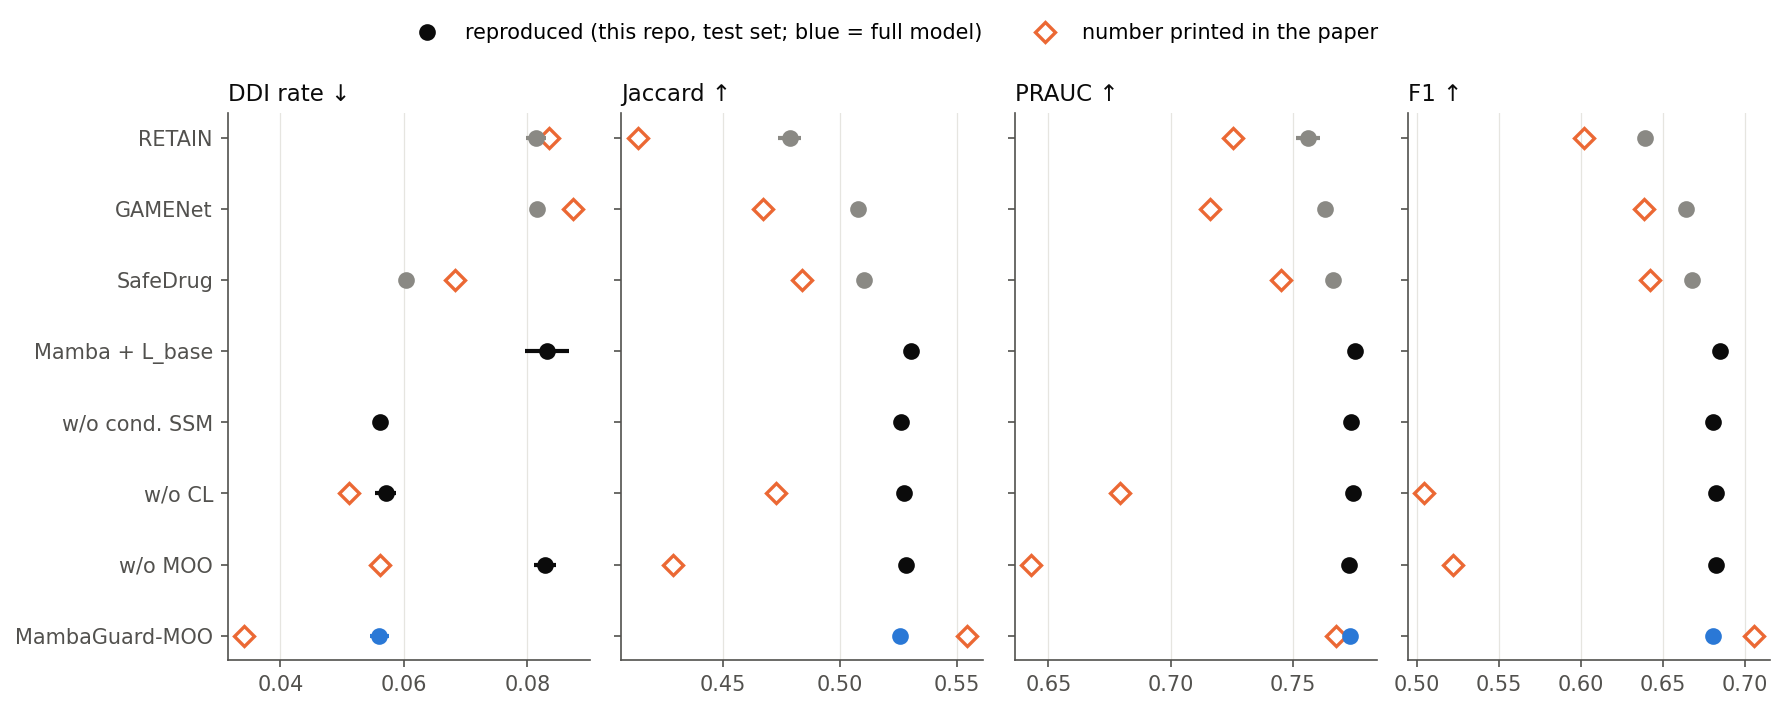
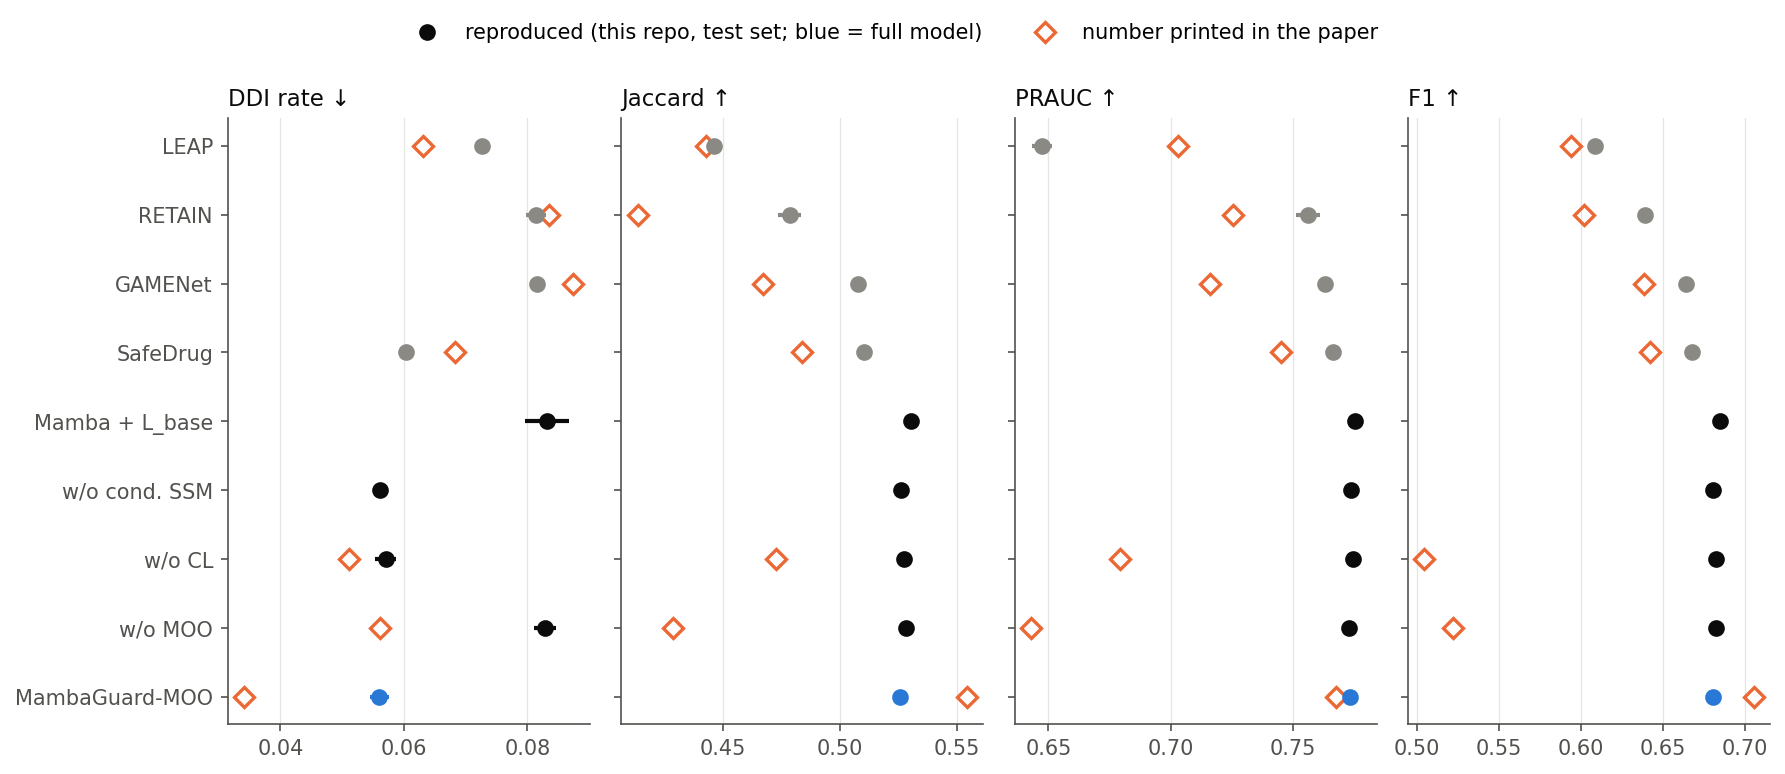
Add official LEAP baseline result

diff --git a/README.md b/README.md
@@ -13,7 +13,7 @@
 
 <img src="assets/tradeoff.png" width="70%">
 
-*Test-set safety vs. accuracy. The multi-objective losses cut the DDI rate of the recommended drug sets by a third, to well below that of the real prescriptions, while keeping Jaccard within half a point of the unconstrained model. Grey: official SafeDrug, GAMENet and RETAIN code re-run on the same data.*
+*Test-set safety vs. accuracy. The multi-objective losses cut the DDI rate of the recommended drug sets by a third, to well below that of the real prescriptions, while keeping Jaccard within half a point of the unconstrained model. Grey: official SafeDrug, GAMENet, RETAIN and LEAP code re-run on the same data.*
 
 </div>
 
@@ -68,6 +68,7 @@ MIMIC-III, SafeDrug preprocessing and split (4 233 / 1 059 / 1 058 patients for 
 | Method | DDI Rate ↓ | Jaccard ↑ | PRAUC ↑ | F1 ↑ | Avg. #Med |
 |---|---|---|---|---|---|
 | RETAIN (official code, 1 run, bootstrap std) | 0.0814 ± 0.0016 | 0.4784 ± 0.0050 | 0.7561 ± 0.0050 | 0.6392 ± 0.0045 | 19.8090 ± 0.2338 |
+| LEAP (official code, 1 run, bootstrap std) | 0.0726 ± 0.0008 | 0.4459 ± 0.0026 | 0.6474 ± 0.0039 | 0.6086 ± 0.0026 | 18.9912 ± 0.0632 |
 | GAMENet (official code, 1 run, bootstrap std) | 0.0816 ± 0.0007 | 0.5078 ± 0.0032 | 0.7630 ± 0.0017 | 0.6640 ± 0.0029 | 26.0182 ± 0.1305 |
 | SafeDrug (official code, 1 run, bootstrap std) | 0.0603 ± 0.0005 | 0.5104 ± 0.0020 | 0.7663 ± 0.0029 | 0.6675 ± 0.0020 | 20.4335 ± 0.1532 |
 | Mamba backbone + L_base only (5 seeds) | 0.0832 ± 0.0035 | 0.5302 ± 0.0015 | 0.7754 ± 0.0020 | 0.6845 ± 0.0013 | 21.9575 ± 0.6269 |
@@ -98,7 +99,7 @@ Numbers printed in the paper, for reference:
 
 1. **What reproduces.** The multi-objective loss does what it is meant to do. With the same backbone, it lowers the DDI rate of the recommended sets from 0.083 to 0.056 (−33 %), below the 0.076 of the real prescriptions, at a cost of ≈ 0.4 Jaccard points. Against the strongest re-run baseline, SafeDrug (official code), the full model is better on all four metrics: DDI 0.056 vs 0.060, Jaccard 0.526 vs 0.510, PRAUC 0.773 vs 0.766, F1 0.681 vs 0.668. Most of the accuracy gap comes from the Mamba backbone itself (the base-loss-only model already reaches Jaccard 0.530); most of the safety gain comes from the MOO loss. The safety target is tunable: with `--w_safe 2` the DDI rate drops further to ≈ 0.047 for about one more Jaccard point ([`results/sweep_table.md`](results/sweep_table.md)).
 2. **What does not reproduce.** The paper reports Jaccard 0.5541, F1 0.7052 and DDI 0.0341. Here the full model reaches **0.526 / 0.681 / 0.056**. The paper's ablation also shows large drops without MOO (Jaccard 0.43) or without contrastive learning (0.47). In this re-run, removing either changes Jaccard by less than 0.003, and only removing MOO changes the DDI rate. The DDI/EHR-conditioned state transitions and the contrastive terms have no measurable effect on any metric (5 seeds each). They are kept because they are part of the method, not because they help.
-3. **Baselines are re-run, not copied.** Table I of the paper copies baseline numbers from different papers and preprocessing versions. Here SafeDrug, GAMENet, RETAIN and LEAP are trained with their **official code** ([SafeDrug repo](https://github.com/ycq091044/SafeDrug), commit `88ce5c3`) on the same files and split. Two compatibility patches are applied for numpy ≥ 1.24, and nothing else is changed ([`baselines/patch_official.py`](baselines/patch_official.py)). Each baseline is a single run, with the repository's own selection rule (best validation Jaccard) and bootstrap test. The re-run SafeDrug lands close to its own paper (Jaccard 0.510 here vs 0.52 in SafeDrug's paper). The paper's Table I numbers for these baselines are lower than what their official code gives on this data (e.g. GAMENet Jaccard 0.467 vs 0.508). *LEAP is still training (the original script trains one visit at a time); its row will be added when it finishes.* MambaHealth, CycleTrans, MoleRec, SHAPE and DMNC are not included.
+3. **Baselines are re-run, not copied.** Table I of the paper copies baseline numbers from different papers and preprocessing versions. Here SafeDrug, GAMENet, RETAIN and LEAP are trained with their **official code** ([SafeDrug repo](https://github.com/ycq091044/SafeDrug), commit `88ce5c3`) on the same files and split. Two compatibility patches are applied for numpy ≥ 1.24, and nothing else is changed ([`baselines/patch_official.py`](baselines/patch_official.py)). Each baseline is a single run, with the repository's own selection rule (best validation Jaccard) and bootstrap test. The re-run SafeDrug lands close to its own paper (Jaccard 0.510 here vs 0.52 in SafeDrug's paper). The paper's Table I numbers for these baselines are lower than what their official code gives on this data (e.g. GAMENet Jaccard 0.467 vs 0.508). MambaHealth, CycleTrans, MoleRec, SHAPE and DMNC are not included.
 4. **Unspecified parts.** The paper lists dosage and personalisation objectives (Eq. 25), but the MIMIC-III benchmark files contain no dose information, so those terms are left out. The MOO matrices `W_safety`, `W_compat` and `W_uncertainty` (Eq. 9) are not described further and are not implemented. Concrete choices for everything the paper leaves open are listed in the method table above: the form of `A_t`, the EHR safety matrix, the positive and hard-negative pairs, `L_enhanced`, and the sign of Δ in Eq. 29.
 5. **Hyper-parameters** were chosen on the validation set only (two sweeps with seed 0, [`results/sweep_table.md`](results/sweep_table.md)), using the paper's own rule (Eq. 31): the best validation score among settings whose DDI rate is ≤ 0.06. The test set was never used for selection.
 

diff --git a/results/main_table.md b/results/main_table.md
@@ -1,6 +1,7 @@
 | Method | DDI Rate ↓ | Jaccard ↑ | PRAUC ↑ | F1 ↑ | Avg. #Med |
 |---|---|---|---|---|---|
 | RETAIN (official code, 1 run, bootstrap std) | 0.0814 ± 0.0016 | 0.4784 ± 0.0050 | 0.7561 ± 0.0050 | 0.6392 ± 0.0045 | 19.8090 ± 0.2338 |
+| LEAP (official code, 1 run, bootstrap std) | 0.0726 ± 0.0008 | 0.4459 ± 0.0026 | 0.6474 ± 0.0039 | 0.6086 ± 0.0026 | 18.9912 ± 0.0632 |
 | GAMENet (official code, 1 run, bootstrap std) | 0.0816 ± 0.0007 | 0.5078 ± 0.0032 | 0.7630 ± 0.0017 | 0.6640 ± 0.0029 | 26.0182 ± 0.1305 |
 | SafeDrug (official code, 1 run, bootstrap std) | 0.0603 ± 0.0005 | 0.5104 ± 0.0020 | 0.7663 ± 0.0029 | 0.6675 ± 0.0020 | 20.4335 ± 0.1532 |
 | Mamba backbone + L_base only (5 seeds) | 0.0832 ± 0.0035 | 0.5302 ± 0.0015 | 0.7754 ± 0.0020 | 0.6845 ± 0.0013 | 21.9575 ± 0.6269 |
